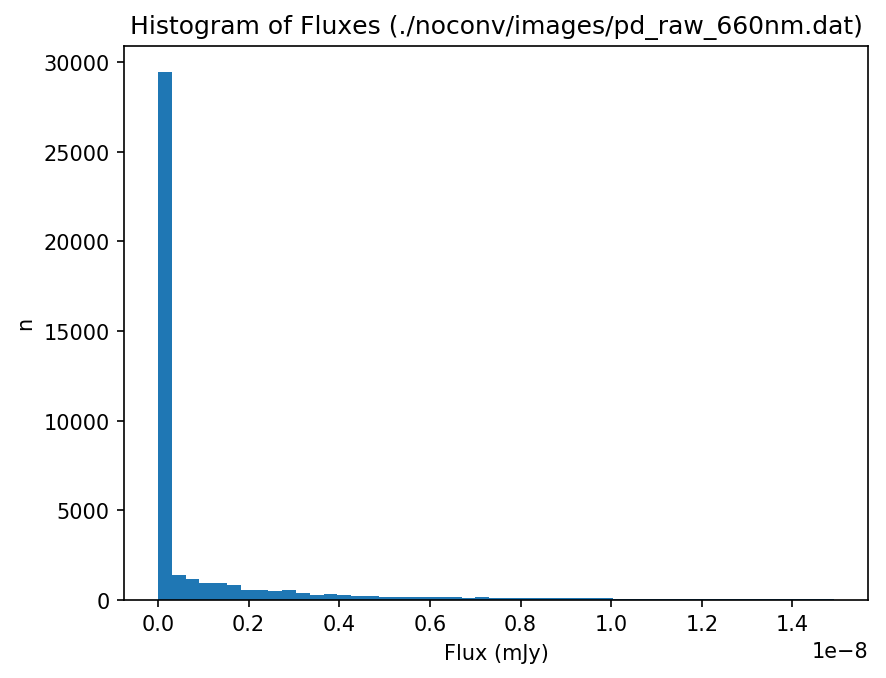
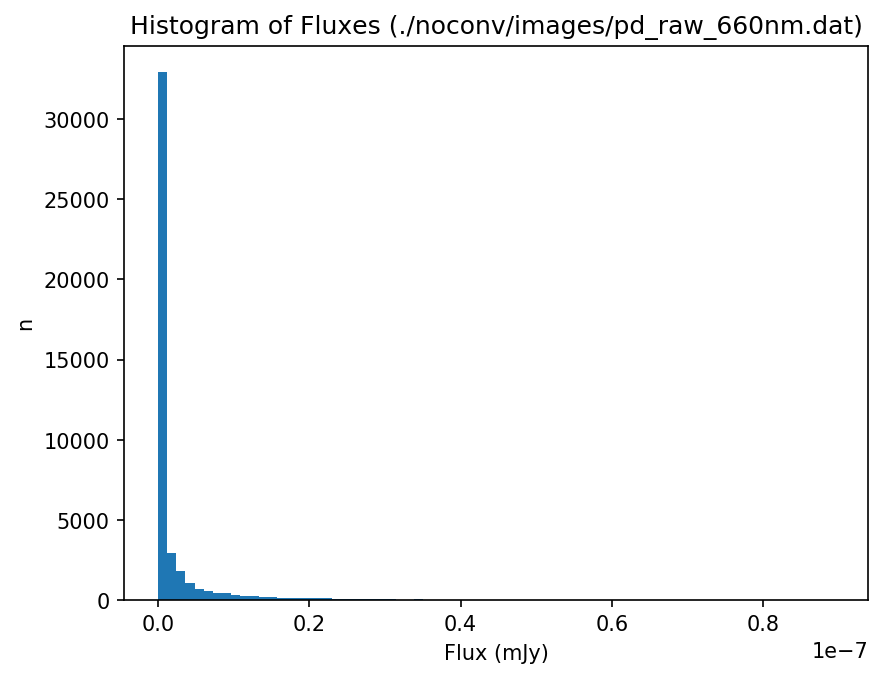
flux histograms 3 sigma from zero

diff --git a/output/flux_hist.py b/output/flux_hist.py
@@ -24,7 +24,7 @@ ax = fig.add_subplot(111)
 
 nonzero = image_data[image_data != 0.0]
 
-ax.hist(nonzero, bins=np.linspace(0, np.median(nonzero)+0.5*np.std(nonzero), 50))
+ax.hist(nonzero, bins=np.linspace(0, 3.*np.std(nonzero), 75))
 ax.set_xlabel('Flux (mJy)')
 ax.set_ylabel('n')
 plt.title('Histogram of Fluxes ({})'.format(args.filename))
